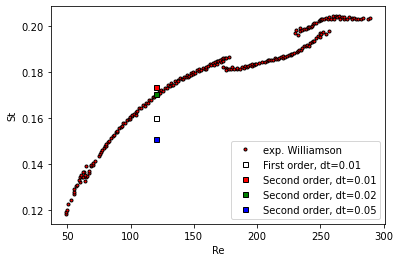
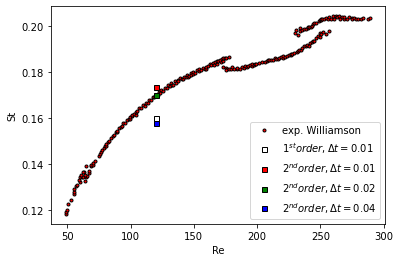
update pics

diff --git a/_tutorials/incompressible_flow/Inc_Von_Karman/Inc_Von_Karman.md b/_tutorials/incompressible_flow/Inc_Von_Karman/Inc_Von_Karman.md
@@ -179,7 +179,8 @@ When we compare the Strouhal number with the experimental data from Williamson, 
 
 Figure (5): Comparison of different numerical settings
 
-In Figure 5, we see the effect of different numerical settings on the prediction of the Strouhal number. The second order scheme predicts a Strouhal number of $$St = 0.1734$$, slightly over predicting the experimental value of $$St_{exp} = 0.170$$. When switching from second order in time to first order, the Strouhal number is under predicted by 8 \% compared to the second order schem. Also, when increasing the time step from 0.01 s to 0.02 seconds, the St decreases by 2 \%. When increasing the time step even further to $$ \Delta t = 0.05 s%%, St decreases by 13 \%. The period of the nondimensional frequency is $$f \approx 0.5 s$$, so with a timestep of 0.01 s we have 50 time steps per period, we have 25 time steps when $$\Delta t = 0.02 s$$, and only 10 time steps when $$\Delta t = 0.05 s$$. It is clear that 10 time steps per period is not sufficient.
+In Figure 5, we see the effect of different numerical settings on the prediction of the Strouhal number. The second order scheme predicts a Strouhal number of $$St = 0.1734$$, slightly over predicting the experimental value of $$St_{exp} = 0.170$$. Note that our predictions of the Strouhal frequency depends on the number of samples and sampling rate that we provide to the FFT. We took 2500 timesteps of 0.01 s which contains enough cycles for an accurate frequency prediction using an fft. 
+When switching from second order in time to first order, the Strouhal number is under predicted by 6 \% compared to the experimental value. Also, when increasing the time step from 0.01 s to 0.02 seconds, the St decreases by 2 \%. When increasing the time step even further to $$ \Delta t = 0.04 s%%, St is under predicted  by 8 \%. The period of the dimensional frequency is $$f \approx 0.5 s$$, so with a timestep of 0.01 s we have 50 time steps per period, we have 25 time steps when $$\Delta t = 0.02 s$$, and only 12 time steps when $$\Delta t = 0.04 s$$. It is clear that 12 time steps per period is not sufficient.
 
 It is also known that the size of the computational domain influences the results, so we reduce the domain by half, $$L = 15 D$$ and $$X = 75 D$$. The Strouhal then increases to $$St = 0.1768$$, an increase of 2 \%. It seems that a far-field that is 15D away from the cylinder is sufficient.
  
@@ -187,9 +188,9 @@ As a final test, the testcase can be executed for varying Reynolds numbers, rang
 
 ![validation](../../../tutorials_files/incompressible_flow/Inc_Von_Karman/images/strouhal_cylinder_karman_Re.png)
 
-Figure (5): Comparison of numerical Strouhal numbers with experiments for varying Reynolds numbers.
+Figure (6): Comparison of numerical Strouhal numbers with experiments for varying Reynolds numbers.
 
-For the lower Reynolds numbers, the Strouhal number seems to be more sensitive to the geometry, mesh and settings and the Strouhal number is under predicted for $$St<80$$.
+We get a pretty good agreement compared to the experimentally measured values.
 
 ### Final notes
 
